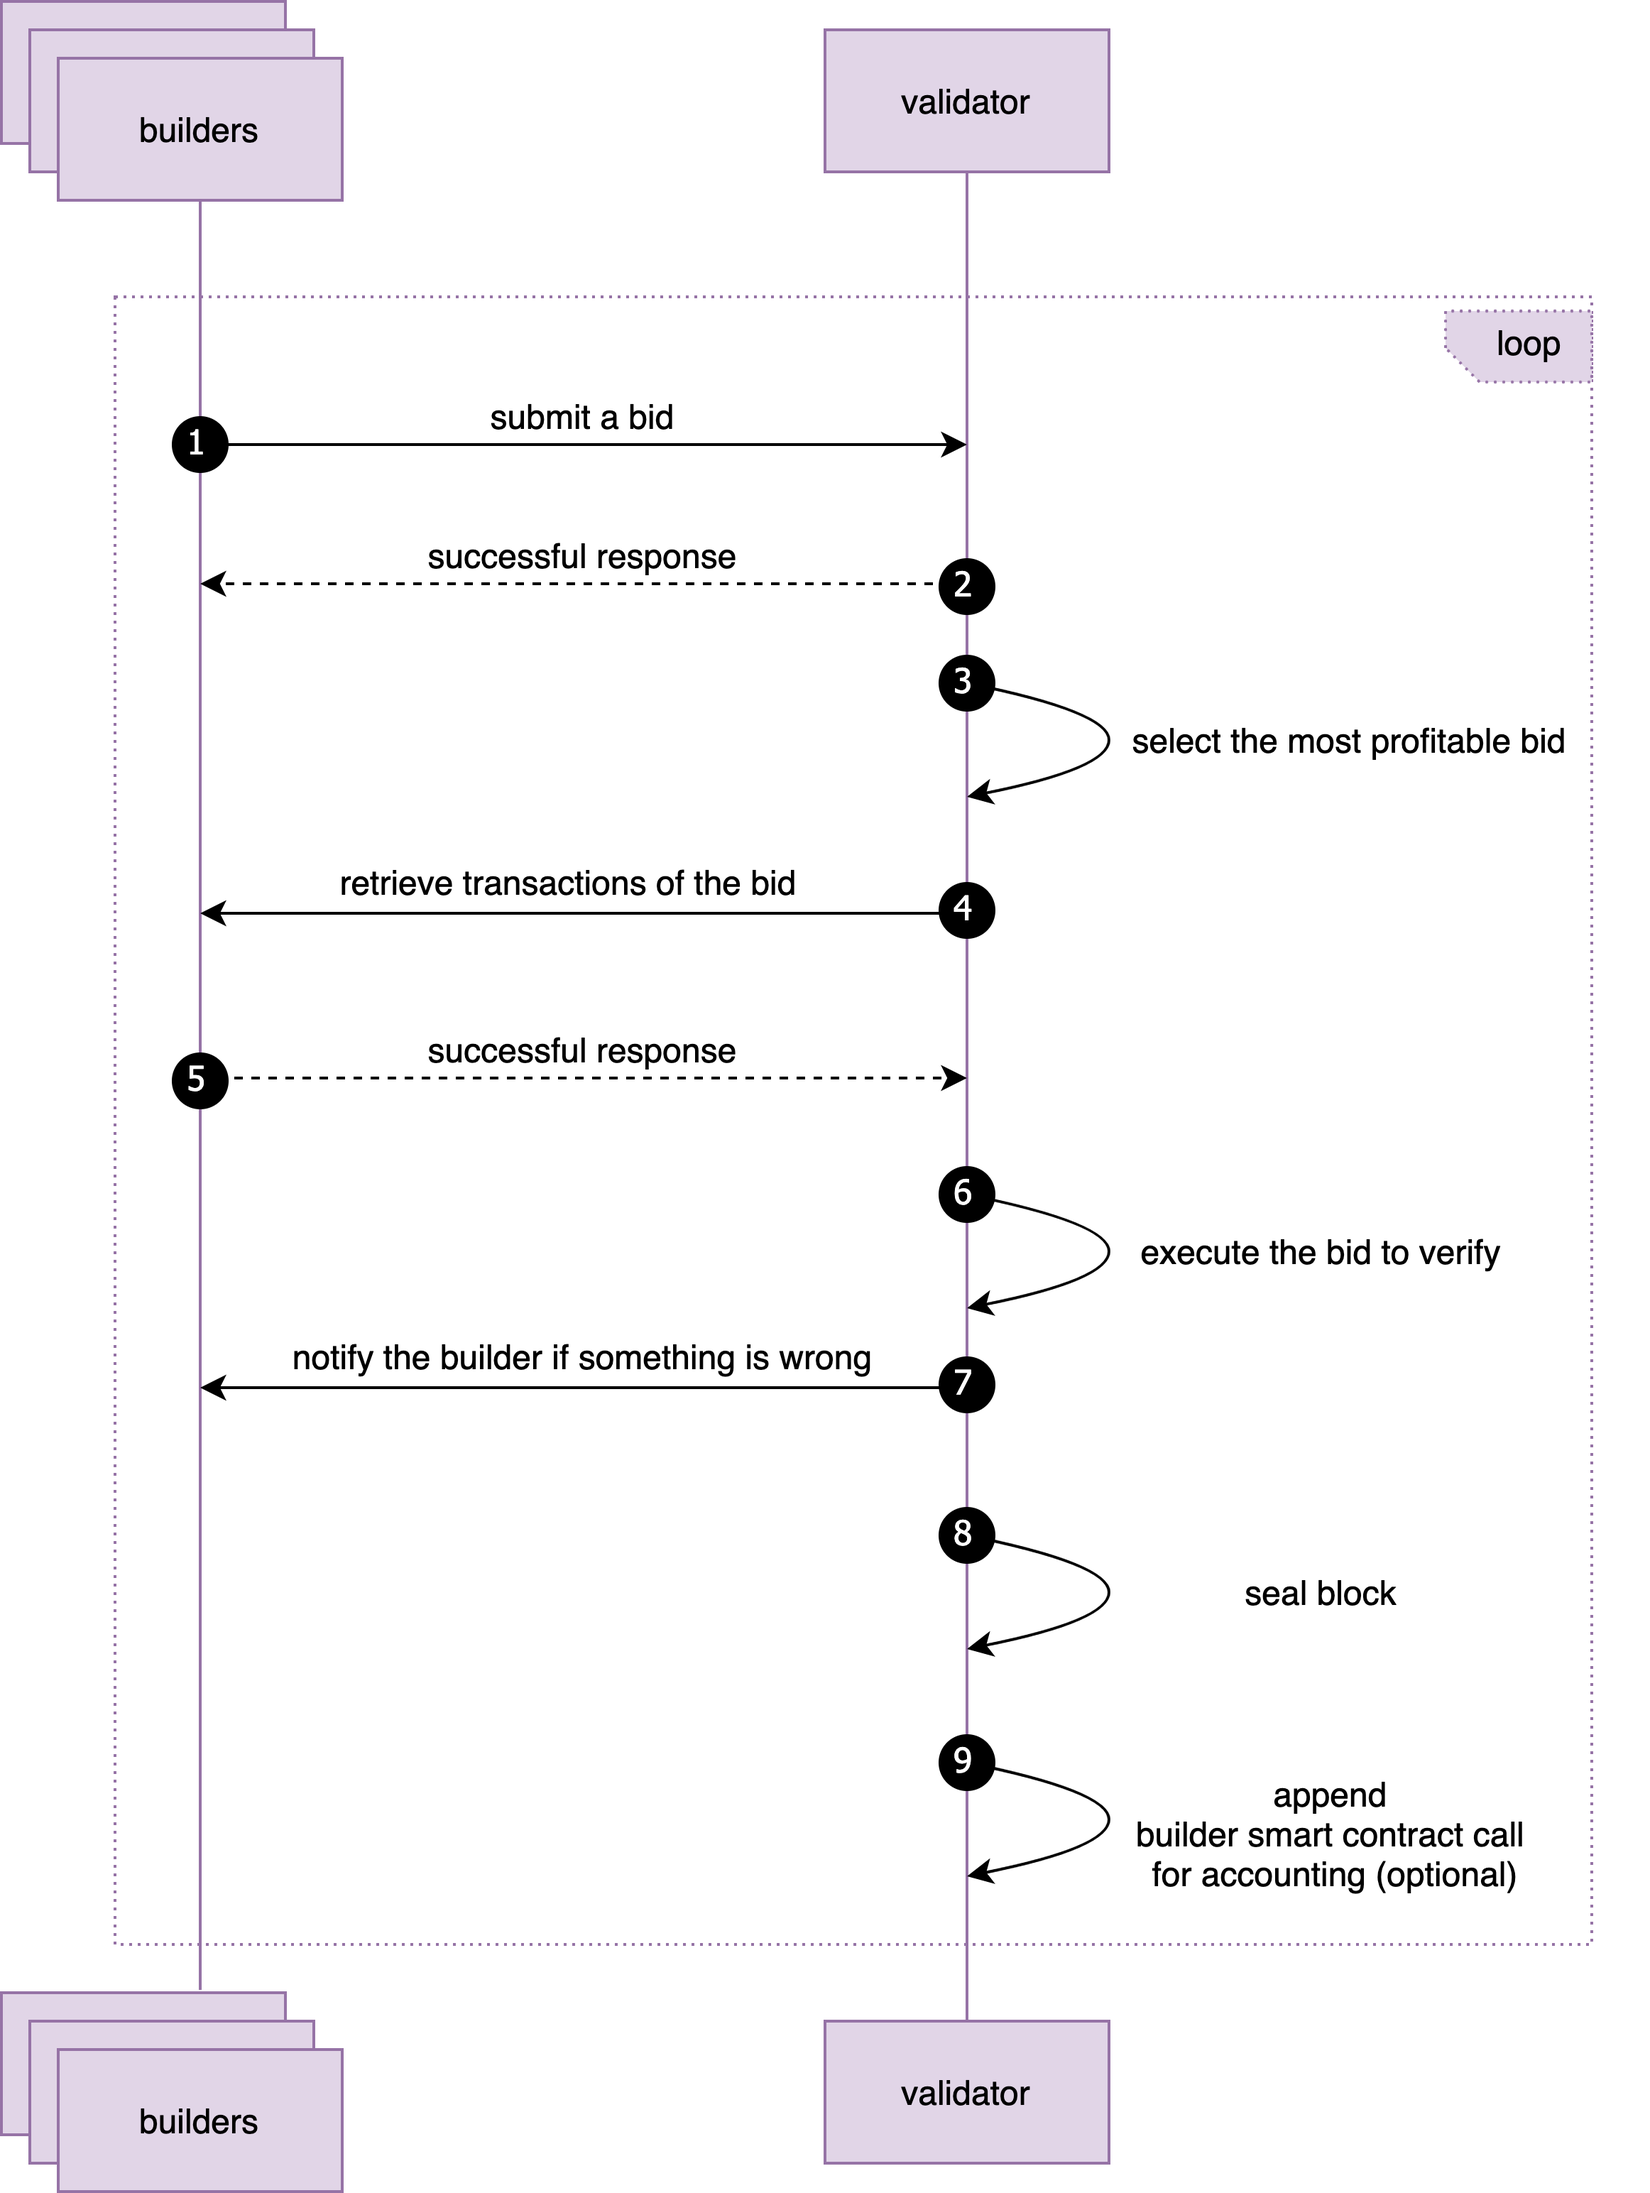
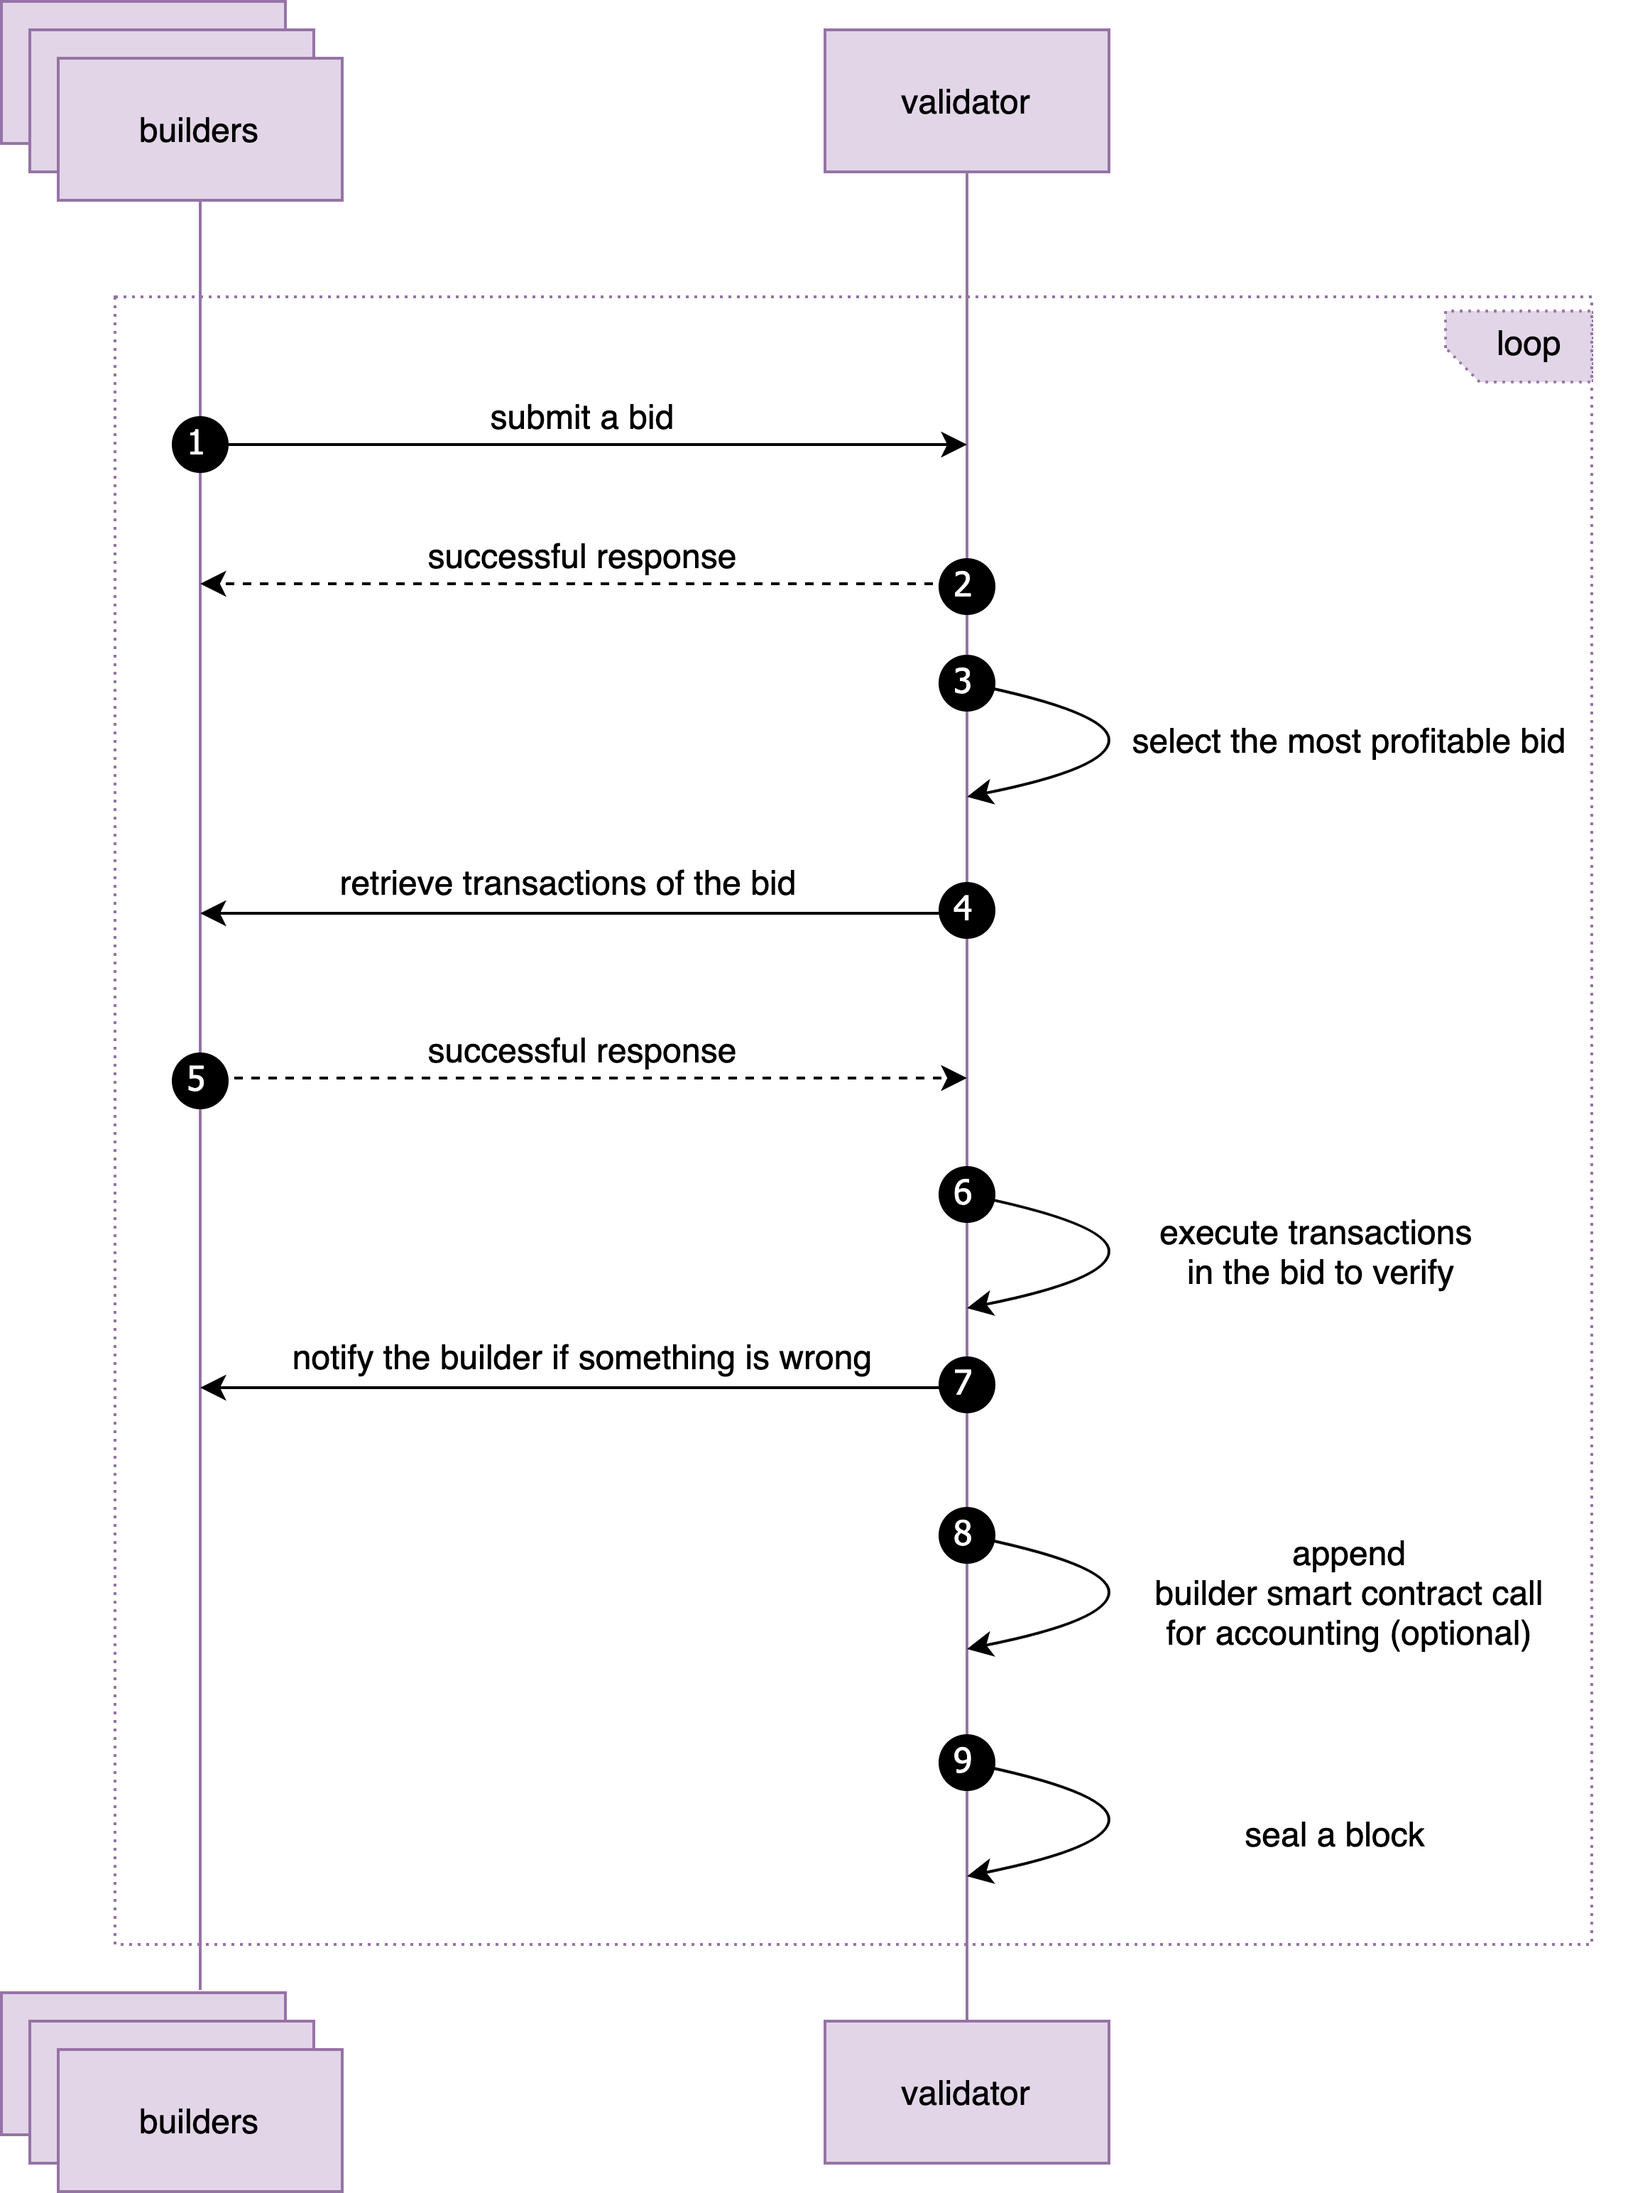
refine content and fix issues

Changed region(s): [[0.6816, 0.8083, 0.9294, 0.8705], [0.7126, 0.6839, 0.9294, 0.7461], [0.6816, 0.5596, 0.8985, 0.5907]]

diff --git a/BEPs/BEP322.md b/BEPs/BEP322.md
@@ -117,11 +117,11 @@ After setup, during each block production interval, the overall workflow for pro
 7) the proposer will notify the builder if something is wrong (e.g., timeout to retrieve transitions from the builder,
    or the proposed block is invalid).
 
-8) the proposer will seal a block using the transactions from the winning builder, if there is no profitable bid
+8) the proposer will append a transaction to record builder fee to its builder smart contract. This step is optional.
+
+9) the proposer will seal a block using the transactions from the winning builder. If there is no profitable bid
    compared to local or the transactions do not return in time, the proposer can still seal a block using local
    transactions.
-
-9) the proposer will append a transaction to record builder fee to its builder smart contract. This step is optional.
 
 ![workflow](./assets/bep-322/workflow_2round.png)
 
@@ -520,15 +520,14 @@ HTTP status code is 200
 ##### 3.4.2.2 Record Builder Fee
 
 After accepting a bid, a validator needs to append one accounting transaction to
-record builder fee to its builder smart contract. Then builders can claim
-their fee from the smart contract.
+book-keep builder fee to its builder smart contract.
 
 ```solidity
 // for a validator to record builder fee
-    function record(uint256 blockHeight, address builderAddress, uint256 fee) external;
+    function bookkeep(uint256 blockHeight, address builderAddress, uint256 fee) external;
 ```
 
-For `record` transaction,
+For `bookkeep` transaction,
 
 * it can be only executed by coinbase address.
 * its gas price should be zero.
